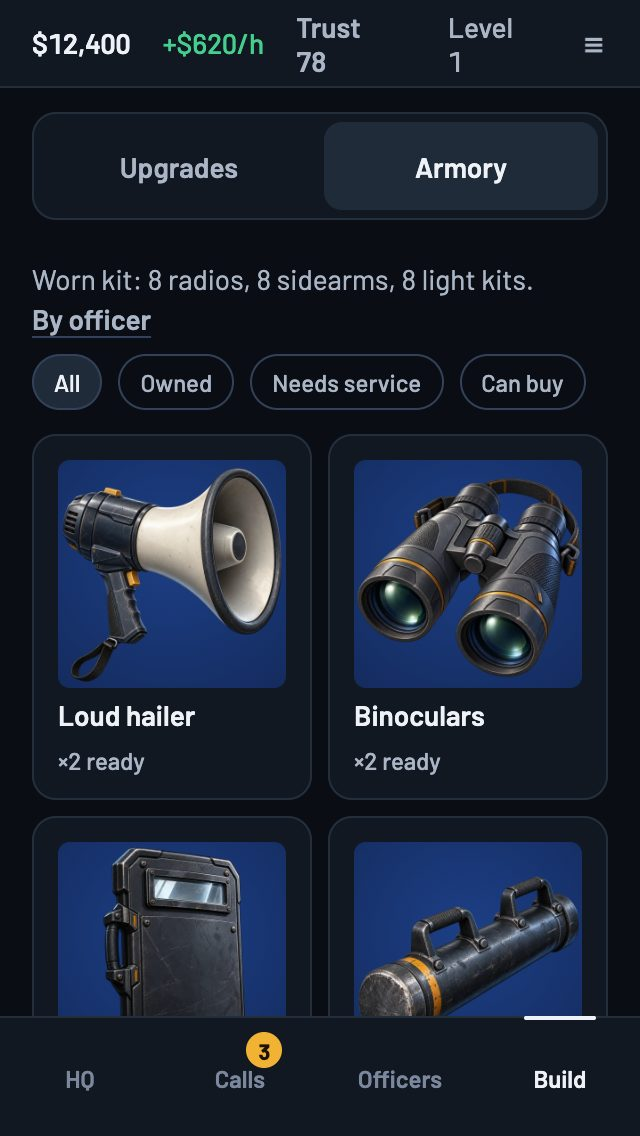
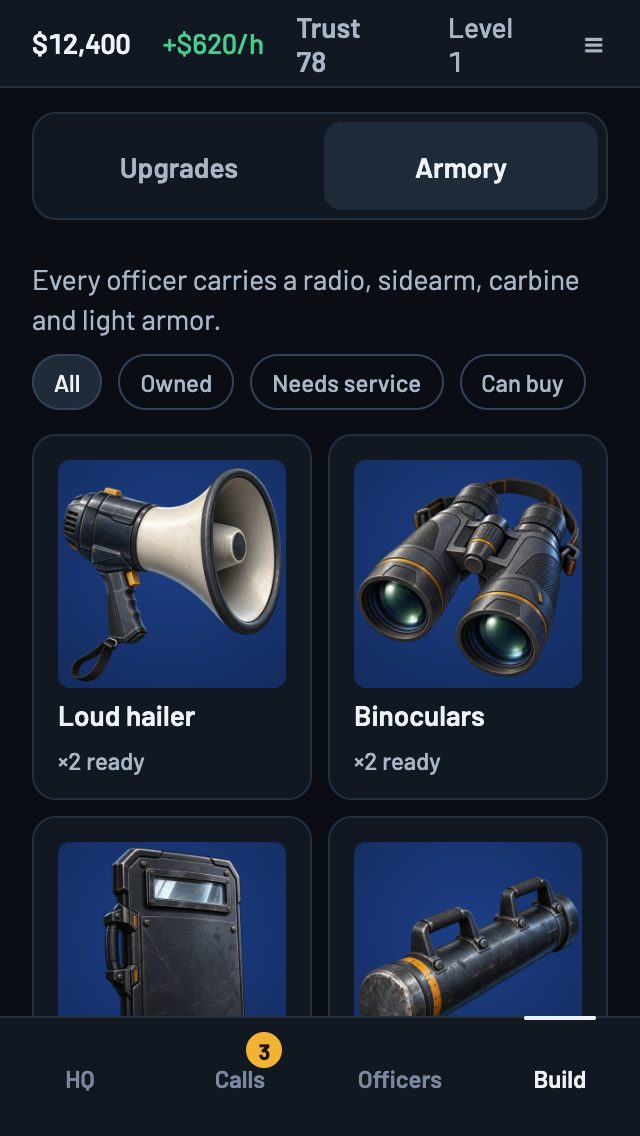
Update the UI audit for basic kit
Basic kit (3e000c9) made a radio, sidearm, carbine and light armor part of
every officer, so the Armory and deploy notes and mockups say what every
officer carries, the four-tabs phase no longer waits on worn-kit, and the
radio shortage dot is gone.

Changed region(s): [[0.0312, 0.2157, 0.8438, 0.3081], [0.875, 0.2465, 0.9062, 0.2773]]

diff --git a/docs/mockups/ui-direction/index.html b/docs/mockups/ui-direction/index.html
@@ -215,7 +215,7 @@ body.narrow .grid3 { grid-template-columns: repeat(2, minmax(0, 1fr)); }
   <div class="actionbar"><button class="btn">Choose team</button></div>
 </section>
 
-<!-- 4. Deploy: kit as a summary per squad; worn kit not shown as stock -->
+<!-- 4. Deploy: kit as a summary per squad; basic kit is never stock -->
 <section class="phone" id="deploy">
   <div class="head"><span class="back">‹ Brief</span><span class="title">Deploy</span></div>
   <div class="scroll pad">
@@ -223,7 +223,7 @@ body.narrow .grid3 { grid-template-columns: repeat(2, minmax(0, 1fr)); }
     <div class="row" style="background:var(--act-soft);margin:0 -16px;padding:8px 16px;border-color:rgba(242,178,52,.3)"><span class="badge" style="background:var(--act);color:var(--act-ink)">A</span><div class="main"><b>Alpha</b><span>4 of 4 ready</span></div><div class="faces"><img class="face sm" src="../../../public/art/portraits/person_012.webp"><img class="face sm" src="../../../public/art/portraits/person_027.webp"><img class="face sm" src="../../../public/art/portraits/person_041.webp"><img class="face sm" src="../../../public/art/portraits/person_063.webp"></div></div>
     <div class="row"><span class="badge">B</span><div class="main"><b>Bravo</b><span>3 of 4 ready, Suleiman strained</span></div></div>
     <h2>Alpha carries <small><span class="link">Adjust</span></small></h2>
-    <div class="t2" style="margin-bottom:var(--sp2)">Every officer wears a radio, sidearm and light protection.</div>
+    <div class="t2" style="margin-bottom:var(--sp2)">Every officer carries a radio, sidearm, carbine and light armor.</div>
     <div style="display:flex;gap:var(--sp2);flex-wrap:wrap"><span class="chip on">Loud hailer ×1</span><span class="chip on">Trauma kit ×1</span><span class="chip">Throw phone, none free</span></div>
     <h2>Going in <small><span class="link">Change</span></small></h2>
     <div class="row" style="border:0"><div class="main"><b>High street, shop floor door</b><span>Nearest door to the subject</span></div></div>
@@ -355,7 +355,7 @@ body.narrow .grid3 { grid-template-columns: repeat(2, minmax(0, 1fr)); }
   <div class="bar"><span>$12,400</span><span class="rate">+$620/h</span><span class="t2">Trust 78</span><span class="sp"></span><span class="lv">Level 1</span><span class="menu">☰</span></div>
   <div class="scroll pad">
     <div class="seg"><div>Upgrades</div><div class="on">Armory</div></div>
-    <div class="row" style="border:0;min-height:44px"><div class="main t2">Worn kit: 8 radios, 8 sidearms, 8 light kits. <span class="link">By officer</span></div></div>
+    <div class="row" style="border:0;min-height:44px"><div class="main t2">Every officer carries a radio, sidearm, carbine and light armor.</div></div>
     <div style="display:flex;gap:var(--sp2);margin-bottom:var(--sp3)"><span class="chip on">All</span><span class="chip">Owned</span><span class="chip">Needs service</span><span class="chip">Can buy</span></div>
     <div class="grid3">
       <div class="tile"><img src="../../../public/art/gear/loud_hailer.webp"><b>Loud hailer</b><div class="meta"><span>×2 ready</span></div></div>

diff --git a/docs/ui-ux-audit.md b/docs/ui-ux-audit.md
@@ -39,8 +39,8 @@ The five changes that matter most, in order:
    amber only for the player's move, and red and blue only on a live call.
 5. **Four destinations.** HQ, Calls, Officers, Build. Build joins Develop and the Armory, which
    both spend funding to grow the department; the HQ cutaway stops repeating the tabs and shows
-   state instead. This waits for `worn-kit`, so the Armory is designed after the basic kit moves
-   onto officers.
+   state instead. Basic kit has left inventory (3e000c9), so the Armory now holds only pooled
+   specialist gear; the merge still waits for the owner's validation.
 
 ## How the audit was done
 
@@ -168,9 +168,13 @@ Each finding names the capture it comes from. File references are to `src/ui/`.
 - **Amber everywhere:** every buyable tile ends in an amber price tag, nine on the screen.
 - **Names:** the tab says Gear, the banner Equipment, the kicker and HQ room Armory, Command Staff
   "Gear maintenance".
-- **In flux:** radio headset ×8, light protective kit ×8 and service sidearm ×2 show as stock
-  here and as steppers on the team step. `worn-kit` moves them onto officers; nothing here should
-  be redesigned around them.
+- **Since the walk:** radio headset ×8, light protective kit ×8 and service sidearm ×2 showed as
+  stock here and as steppers on the team step. Basic kit (3e000c9, after this audit's captures)
+  makes a radio, sidearm, carbine and light armor part of every officer: never stock, never sold
+  or packed, no bonus. The Armory and team step now say so in one line, the radio row and its buy
+  button are gone from Prepare, and HQ's "Radios short" state and the Gear dot are gone. The
+  shotgun is the response upgrade, and teams use a less-lethal tool first when a trained officer
+  carries one with its supply.
 - **Item sheet:** "Purchase unlocked" and the price as chips, then "Unlock and qualifications"
   saying the same in prose; the footer shows the total twice ("Total funding $250", "Buy 1 · $250
   funding"). At 320 the body between header and footer is 281px.
@@ -315,7 +319,7 @@ Mockups at 390x844 and 320x568, drawn from
 | | | |
 | --- | --- | --- |
 | ![HQ](captures/ui-ux-audit/mockups/hq-390.jpg) **HQ**: the cutaway shows state; one "your move" card; duty set here only | ![Calls](captures/ui-ux-audit/mockups/board-390.jpg) **Calls**: the card is the tap target; one warning line; pay and readiness on one row | ![Brief](captures/ui-ux-audit/mockups/brief-390.jpg) **Brief**: a pushed flow, orders and threat first, cold open whole, Map in the head |
-| ![Deploy](captures/ui-ux-audit/mockups/deploy-390.jpg) **Deploy**: squad rows, kit as a summary with Adjust, worn kit as one line, "Deploy Alpha" | ![Decide](captures/ui-ux-audit/mockups/decide-390.jpg) **Decide**: strip and Step out, no tabs; one choice card anatomy | ![Review](captures/ui-ux-audit/mockups/review-390.jpg) **Review**: cost and the three outcomes first; odds stated once |
+| ![Deploy](captures/ui-ux-audit/mockups/deploy-390.jpg) **Deploy**: squad rows, kit as a summary with Adjust, basic kit as one line, "Deploy Alpha" | ![Decide](captures/ui-ux-audit/mockups/decide-390.jpg) **Decide**: strip and Step out, no tabs; one choice card anatomy | ![Review](captures/ui-ux-audit/mockups/review-390.jpg) **Review**: cost and the three outcomes first; odds stated once |
 | ![Debrief](captures/ui-ux-audit/mockups/debrief-390.jpg) **Debrief**: ending, what changed as rows, Done | ![Officers](captures/ui-ux-audit/mockups/officers-390.jpg) **Officers**: rows that hold at 320, each officer once | ![Officer](captures/ui-ux-audit/mockups/officer-390.jpg) **Officer**: one readiness line, Dismiss moves into the overflow |
 | ![Upgrades](captures/ui-ux-audit/mockups/upgrades-390.jpg) **Build, Upgrades**: amber on the one Next card; branches named | ![Armory](captures/ui-ux-audit/mockups/armory-390.jpg) **Build, Armory**: pooled gear only, prices quiet | ![Menu](captures/ui-ux-audit/mockups/menu-390.jpg) **Menu**: settings, saves and support in one sheet |
 
@@ -339,7 +343,7 @@ meets its own floors. Not yet drawn: two squads on one call, and the 200% text l
 4. **Officers:** Squads (each squad a block of rows, the leader starred, Arrange on the heading),
    Roster (filter and sort), Hire (candidates as rows with the contract in a sheet), Training.
 5. **Build:** Upgrades (one Next card, named branch chips, rows with quiet prices and milestone
-   progress) and Armory (pooled gear grid, worn kit as one line linking to who wears what).
+   progress) and Armory (pooled gear grid, basic kit as one line).
 6. **HQ:** the cutaway with pins only for state that needs the player, one card for the most
    pressing move, duty rows (where duty is set by hand, with each squad's Watch Commander opt-out
    and its status on the same row), Command Staff as rows, recent results.
@@ -379,7 +383,7 @@ Ranked by player impact for the effort. Each phase ships alone and leaves the ga
 | 1. One visual system | Tokens for type, space and colour roles; one primitive set (Button, Chip, Card, Row, Sheet, ActionBar); the duplicate definitions in `app.css` and `skin.css` deleted; hex moved to tokens; the new skin through the tokens, without the story serif; ratchet tests | High (every screen reads cleaner, small text gone) | Medium | nothing |
 | 2. Chrome contract | Resource bar; no banners on tab roots; flows with a head and one action bar and no tabs, with the exit table below; Menu sheet; toasts never over the strip. Step out only after its pause is built and validated | High | Medium | Phase 1 |
 | 3. Calls flow | Say-it-once by field and the verb ladder on the board, brief, deploy, decide, review, result and debrief, designed against today's pooled equipment; folds in `ops-experience-now` | High | Medium | Phase 2 |
-| 4. Four destinations | Officers and Build tabs; HQ as status; one assignment path; one preset home (`squad-preset-editor`); badge-to-segment routing | High | High | Phase 2, `worn-kit`, owner validation |
+| 4. Four destinations | Officers and Build tabs; HQ as status; one assignment path; one preset home (`squad-preset-editor`); badge-to-segment routing | High | High | Phase 2, basic kit (landed), owner validation |
 
 **Exits from a flow** (required before phase 2 hides the tabs; corrected after review, which found
 that Prepare's draft is component state that Back discards, `screens/OpsPrepare.tsx:73-90` and
@@ -423,7 +427,7 @@ idle (welcome back, an empty board); `npm run verify`. Phase-specific checks:
 ### My own strongest case against each change (before review)
 
 - **Four tabs.** Merging Develop and the Armory buries the Armory one tap deeper, and the radio
-  shortage dot would move to Build. The shortage disappears with `worn-kit`; the merge waits for it.
+  shortage dot would move to Build. Basic kit removed the radio shortage, so that dot is gone.
 - **Hiding the tabs on flows.** A player mid-brief who wants to check an officer has to back out.
   I first wrote that Prepare already keeps its draft. It doesn't; see the exit table.
 - **Step out.** A call left running in the background is a call the player forgets; with the
@@ -522,10 +526,12 @@ about. Done: the e2e script reaches every former screen; hire-and-equip passes; 
 trips return; captures at three widths.
 ```
 
-## Notes for the parallel `worn-kit` work
+## Notes on basic kit and `worn-kit`
 
-The team step and the Armory are drawn here against per-officer kit: one line saying what every
-officer wears, pooled gear as the only stock and the only steppers, and wear shown by officer.
-Codex noted the Armory still carries maintenance after `worn-kit` (daily wear survives, per the
-`worn-kit` item), so Build keeps service and restock. Phases 1 and 2 don't depend on how
-`worn-kit` lands; phase 3 is designed against today's pooled equipment; phase 4 waits for it.
+Basic kit landed in 3e000c9: every officer carries a radio, sidearm, carbine and light armor,
+which is never stock, never sold or packed, and adds no bonus. The team step and the Armory are
+drawn against that: one line saying what every officer carries, pooled specialist gear as the only
+stock and the only steppers. `worn-kit` is now only armor reducing harm to the officer wearing it,
+which doesn't change these screens. Codex noted the Armory still carries maintenance (daily wear
+survives on pooled gear), so Build keeps service and restock. Phase 3 is designed against today's
+pooled equipment; phase 4 waits only for the owner's validation of the merge.
